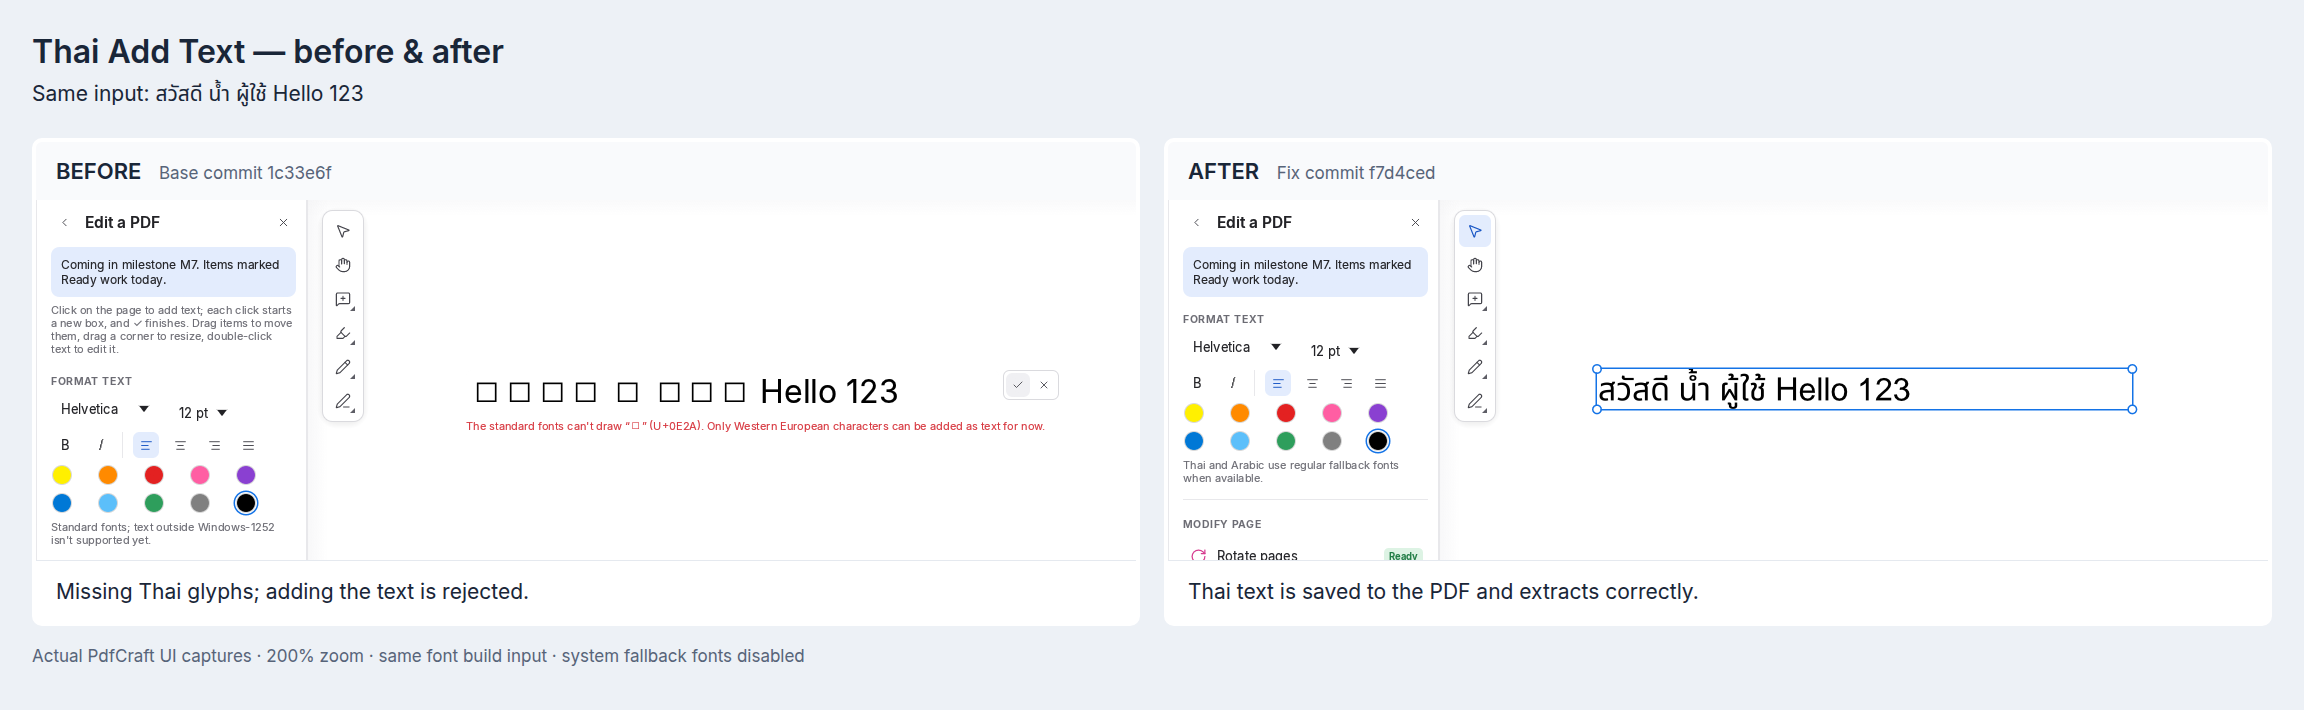
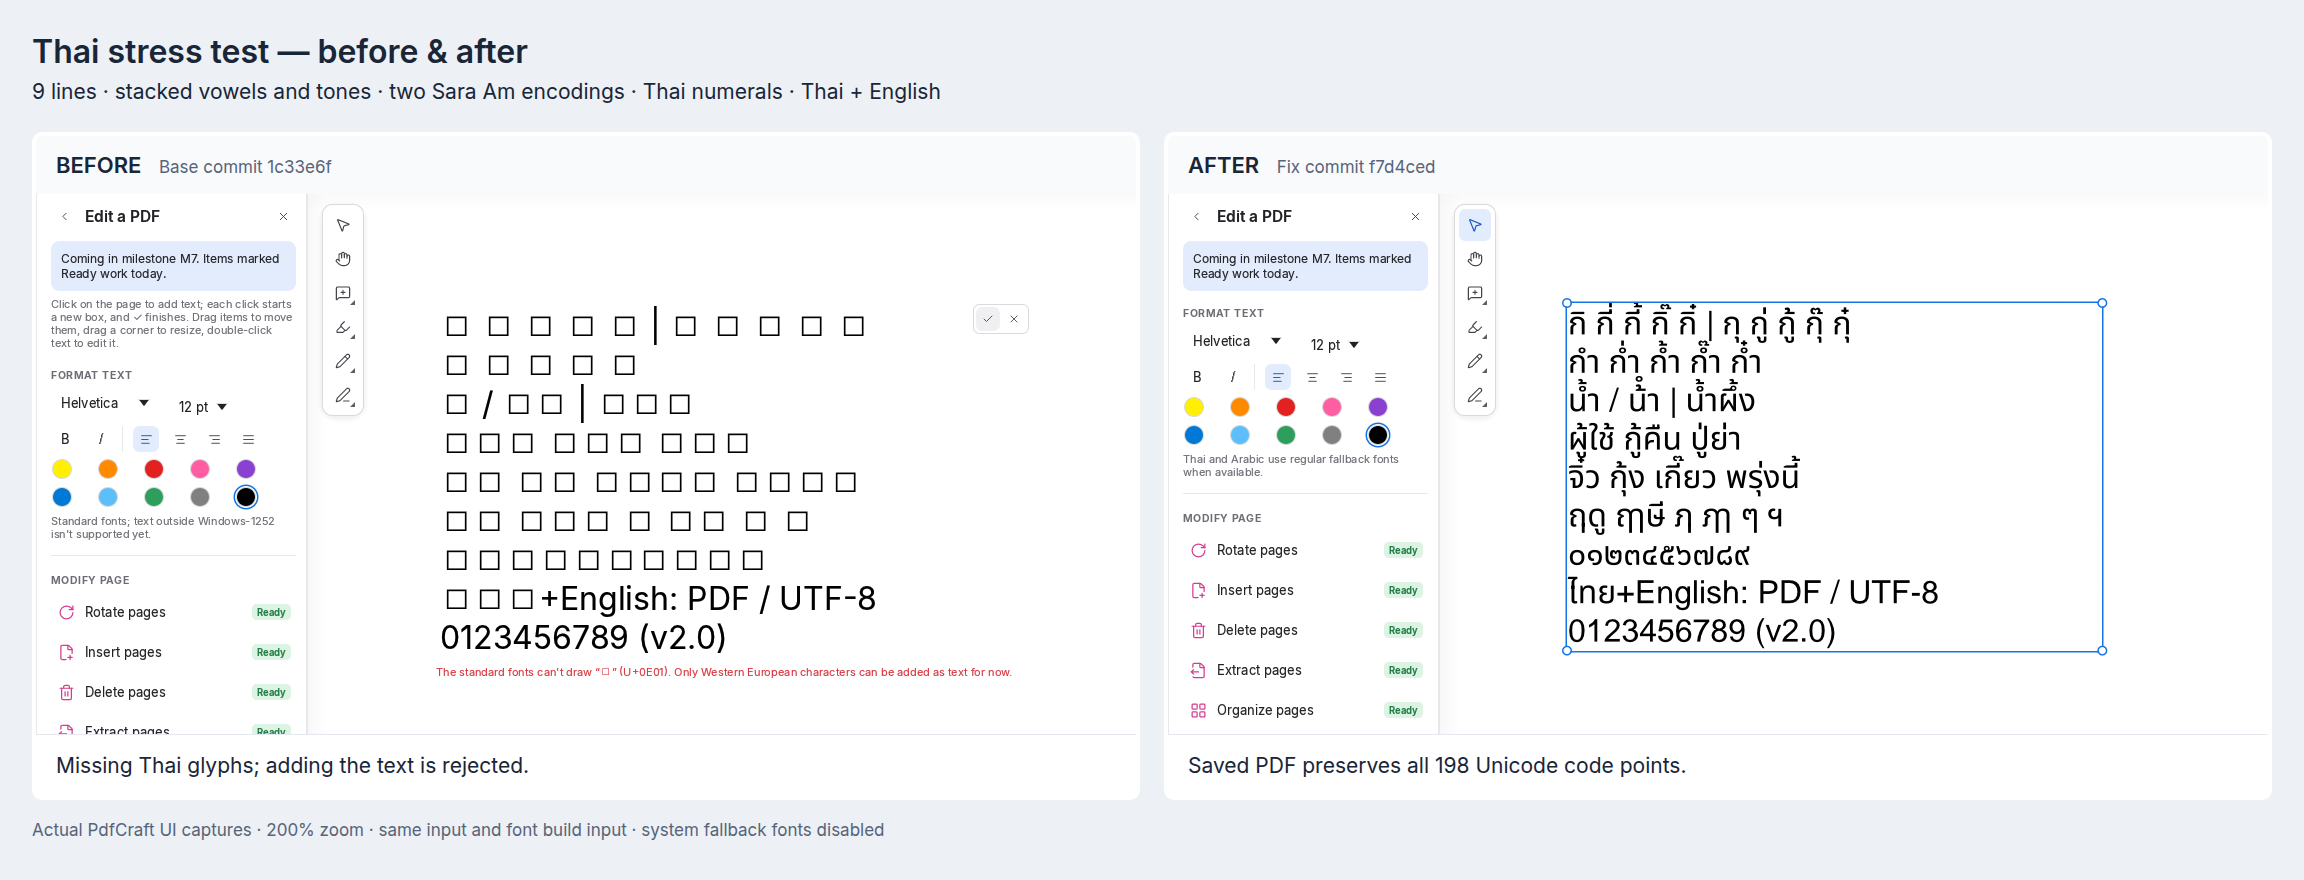
M7: demonstrate Thai stress cases in the comparison screenshot
Show nine lines of stacked marks, both Sara Am encodings, Thai digits and mixed Latin text. Verify all 198 Unicode code points survive saving and extraction with both PdfCraft and Poppler.

diff --git a/ATTRIBUTION.md b/ATTRIBUTION.md
@@ -268,7 +268,7 @@ Every asset PdfCraft includes, bundles or uses to build its published material, 
 | `packaging/macos/dmg/background.svg` | PdfCraft macOS DMG window background | @XusBadia | MIT OR Apache-2.0 | Original work for this repository, derived from the PdfCraft app icon (assets/app-icon/pdfcraft.svg, referenced via an SVG image element, not copied) | Finder window of the macOS DMG; rendered to background.tiff by packaging/macos/dmg/generate.py |
 | `packaging/macos/dmg/background.tiff` | PdfCraft macOS DMG window background (rendered) | @XusBadia | MIT OR Apache-2.0 | Rendered from packaging/macos/dmg/background.svg by packaging/macos/dmg/generate.py | 1x + 2x HiDPI 16-colour palette TIFF copied into the macOS DMG by packaging/macos/package.sh; includes the app icon and the free LittleCMS built-in sRGB profile |
 | `crates/sign/tests/data/x509-rsa-sha1.pdf` | One-page PDF with a legacy adbe.x509.rsa_sha1 signature by the RSA test key | PdfCraft contributors | MIT OR Apache-2.0 | Contributor-original: hand-written PDF objects; signature made with `openssl dgst -sha1 -sign` over its byte ranges (see crates/sign/tests/data/README.md) | Signature validation tests (crates/sign/tests/pdf.rs): the legacy adbe.x509.rsa_sha1 format |
-| `docs/images/pdfcraft-thai-before-after.png` | PdfCraft Thai Add Text: before and after | PuemMTH (PdfCraft UI control captures and comparison layout) | MIT OR Apache-2.0 | this repository; base 1c33e6f851fc4a75805c9d3504c578a7623bbac5 and fix f7d4ced7b60939a1fe4637a320c11b907530c60f | PR comparison of rejected Thai input and saved Thai text. Synthetic text only; PdfCraft UI, Lucide icons, Inter and OFL Noto Sans Thai from craft-fonts. Both builds use the same font input, 200% zoom and PDFCRAFT_SYSTEM_FONTS=0. |
+| `docs/images/pdfcraft-thai-before-after.png` | PdfCraft Thai Add Text: before and after | PuemMTH (PdfCraft UI control captures and comparison layout) | MIT OR Apache-2.0 | this repository; base 1c33e6f851fc4a75805c9d3504c578a7623bbac5 and fix f7d4ced7b60939a1fe4637a320c11b907530c60f | PR comparison of rejected Thai input and saved Thai text: nine lines with stacked marks, both Sara Am encodings, Thai numerals and mixed English; 198 Unicode code points verified by extraction. Synthetic text only; PdfCraft UI, Lucide icons, Inter and OFL Noto Sans Thai from craft-fonts. Both builds use the same font input, 200% zoom and PDFCRAFT_SYSTEM_FONTS=0. |
 
 ## Compiled in through dependencies (6)
 
